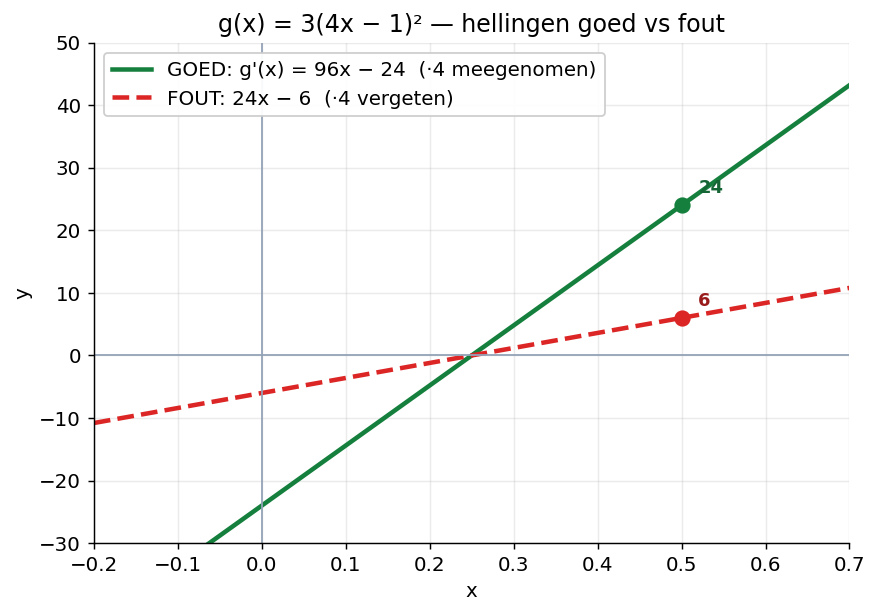
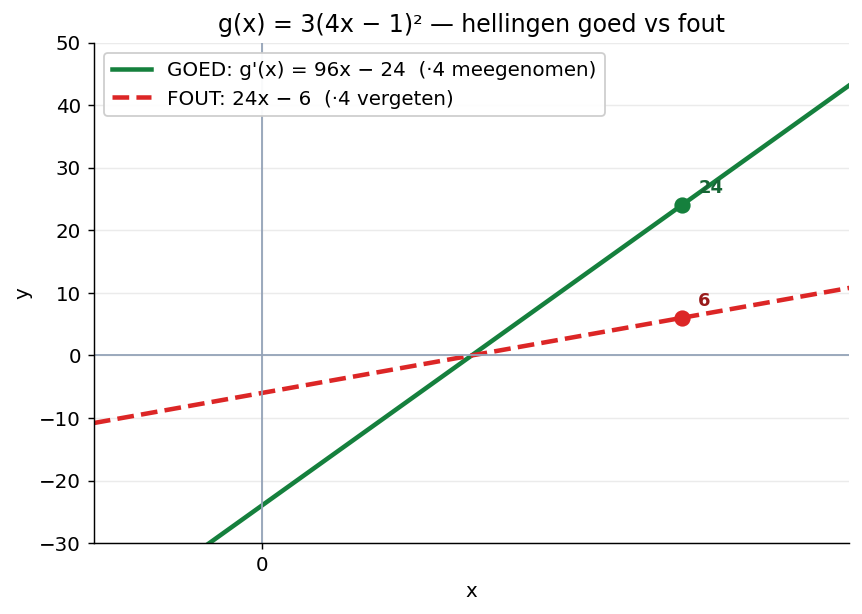
Wiskunde HAVO 4 — H6 matplotlib-figuren: nette tick-stappen op as-schalen (geen 0.5-stappen meer). Voor alle 6 generate.py-scripts (6.1 t/m 6.4 + synthese + oefentoets) een _nice_step helper toegevoegd die op basis van het asbereik kiest tussen stappen van 1, 2, 5 of 10 — en MultipleLocator toepast 

diff --git a/rwrw01/wiskunde/havo-4/h6/oefentoets/img/generate.py b/rwrw01/wiskunde/havo-4/h6/oefentoets/img/generate.py
@@ -32,13 +32,27 @@ plt.rcParams.update(
 )
 
 
+def _nice_step(span):
+    """Kies een leesbare tick-stap (1, 2, 5, 10) op basis van het bereik. Geen 0.5-stappen."""
+    if span <= 6:
+        return 1
+    if span <= 14:
+        return 2
+    if span <= 30:
+        return 5
+    return 10
+
+
 def style_axes(ax, x_range, y_range):
+    from matplotlib.ticker import MultipleLocator
     ax.axhline(0, color="#94a3b8", lw=1)
     ax.axvline(0, color="#94a3b8", lw=1)
     ax.set_xlim(*x_range)
     ax.set_ylim(*y_range)
     ax.set_xlabel("x")
     ax.set_ylabel("y")
+    ax.xaxis.set_major_locator(MultipleLocator(_nice_step(x_range[1] - x_range[0])))
+    ax.yaxis.set_major_locator(MultipleLocator(_nice_step(y_range[1] - y_range[0])))
 
 
 # --------------------------------------------------------------------------

diff --git a/rwrw01/wiskunde/havo-4/h6/synthese/img/generate.py b/rwrw01/wiskunde/havo-4/h6/synthese/img/generate.py
@@ -28,13 +28,27 @@ plt.rcParams.update(
 )
 
 
+def _nice_step(span):
+    """Kies een leesbare tick-stap (1, 2, 5, 10) op basis van het bereik. Geen 0.5-stappen."""
+    if span <= 6:
+        return 1
+    if span <= 14:
+        return 2
+    if span <= 30:
+        return 5
+    return 10
+
+
 def style_axes(ax, x_range, y_range):
+    from matplotlib.ticker import MultipleLocator
     ax.axhline(0, color="#94a3b8", lw=1)
     ax.axvline(0, color="#94a3b8", lw=1)
     ax.set_xlim(*x_range)
     ax.set_ylim(*y_range)
     ax.set_xlabel("x")
     ax.set_ylabel("y")
+    ax.xaxis.set_major_locator(MultipleLocator(_nice_step(x_range[1] - x_range[0])))
+    ax.yaxis.set_major_locator(MultipleLocator(_nice_step(y_range[1] - y_range[0])))
 
 
 def fig1_opg1_raaklijn_loodrecht():

diff --git a/rwrw01/wiskunde/havo-4/h6/6.3-kettingregel/img/generate.py b/rwrw01/wiskunde/havo-4/h6/6.3-kettingregel/img/generate.py
@@ -27,13 +27,27 @@ plt.rcParams.update(
 )
 
 
+def _nice_step(span):
+    """Kies een leesbare tick-stap (1, 2, 5, 10) op basis van het bereik. Geen 0.5-stappen."""
+    if span <= 6:
+        return 1
+    if span <= 14:
+        return 2
+    if span <= 30:
+        return 5
+    return 10
+
+
 def style_axes(ax, x_range, y_range):
+    from matplotlib.ticker import MultipleLocator
     ax.axhline(0, color="#94a3b8", lw=1)
     ax.axvline(0, color="#94a3b8", lw=1)
     ax.set_xlim(*x_range)
     ax.set_ylim(*y_range)
     ax.set_xlabel("x")
     ax.set_ylabel("y")
+    ax.xaxis.set_major_locator(MultipleLocator(_nice_step(x_range[1] - x_range[0])))
+    ax.yaxis.set_major_locator(MultipleLocator(_nice_step(y_range[1] - y_range[0])))
 
 
 def fig1_drie_x_plus_1_kwadraat():

diff --git a/rwrw01/wiskunde/havo-4/h6/6.2-machtsfuncties/img/generate.py b/rwrw01/wiskunde/havo-4/h6/6.2-machtsfuncties/img/generate.py
@@ -27,13 +27,27 @@ plt.rcParams.update(
 )
 
 
+def _nice_step(span):
+    """Kies een leesbare tick-stap (1, 2, 5, 10) op basis van het bereik. Geen 0.5-stappen."""
+    if span <= 6:
+        return 1
+    if span <= 14:
+        return 2
+    if span <= 30:
+        return 5
+    return 10
+
+
 def style_axes(ax, x_range, y_range):
+    from matplotlib.ticker import MultipleLocator
     ax.axhline(0, color="#94a3b8", lw=1)
     ax.axvline(0, color="#94a3b8", lw=1)
     ax.set_xlim(*x_range)
     ax.set_ylim(*y_range)
     ax.set_xlabel("x")
     ax.set_ylabel("y")
+    ax.xaxis.set_major_locator(MultipleLocator(_nice_step(x_range[1] - x_range[0])))
+    ax.yaxis.set_major_locator(MultipleLocator(_nice_step(y_range[1] - y_range[0])))
 
 
 def fig1_negatieve_exponent():

diff --git a/rwrw01/wiskunde/havo-4/h6/6.1-raaklijnen-en-toppen/img/generate.py b/rwrw01/wiskunde/havo-4/h6/6.1-raaklijnen-en-toppen/img/generate.py
@@ -27,13 +27,27 @@ plt.rcParams.update(
 )
 
 
+def _nice_step(span):
+    """Kies een leesbare tick-stap (1, 2, 5, 10) op basis van het bereik. Geen 0.5-stappen."""
+    if span <= 6:
+        return 1
+    if span <= 14:
+        return 2
+    if span <= 30:
+        return 5
+    return 10
+
+
 def style_axes(ax, x_range, y_range):
+    from matplotlib.ticker import MultipleLocator
     ax.axhline(0, color="#94a3b8", lw=1)
     ax.axvline(0, color="#94a3b8", lw=1)
     ax.set_xlim(*x_range)
     ax.set_ylim(*y_range)
     ax.set_xlabel("x")
     ax.set_ylabel("y")
+    ax.xaxis.set_major_locator(MultipleLocator(_nice_step(x_range[1] - x_range[0])))
+    ax.yaxis.set_major_locator(MultipleLocator(_nice_step(y_range[1] - y_range[0])))
 
 
 def fig1_helling_ontdekken():

diff --git a/rwrw01/wiskunde/havo-4/h6/6.4-toepassingen/img/generate.py b/rwrw01/wiskunde/havo-4/h6/6.4-toepassingen/img/generate.py
@@ -28,13 +28,27 @@ plt.rcParams.update(
 )
 
 
+def _nice_step(span):
+    """Kies een leesbare tick-stap (1, 2, 5, 10) op basis van het bereik. Geen 0.5-stappen."""
+    if span <= 6:
+        return 1
+    if span <= 14:
+        return 2
+    if span <= 30:
+        return 5
+    return 10
+
+
 def style_axes(ax, x_range, y_range):
+    from matplotlib.ticker import MultipleLocator
     ax.axhline(0, color="#94a3b8", lw=1)
     ax.axvline(0, color="#94a3b8", lw=1)
     ax.set_xlim(*x_range)
     ax.set_ylim(*y_range)
     ax.set_xlabel("x")
     ax.set_ylabel("y")
+    ax.xaxis.set_major_locator(MultipleLocator(_nice_step(x_range[1] - x_range[0])))
+    ax.yaxis.set_major_locator(MultipleLocator(_nice_step(y_range[1] - y_range[0])))
 
 
 def fig1_loodrechte_lijnen():
